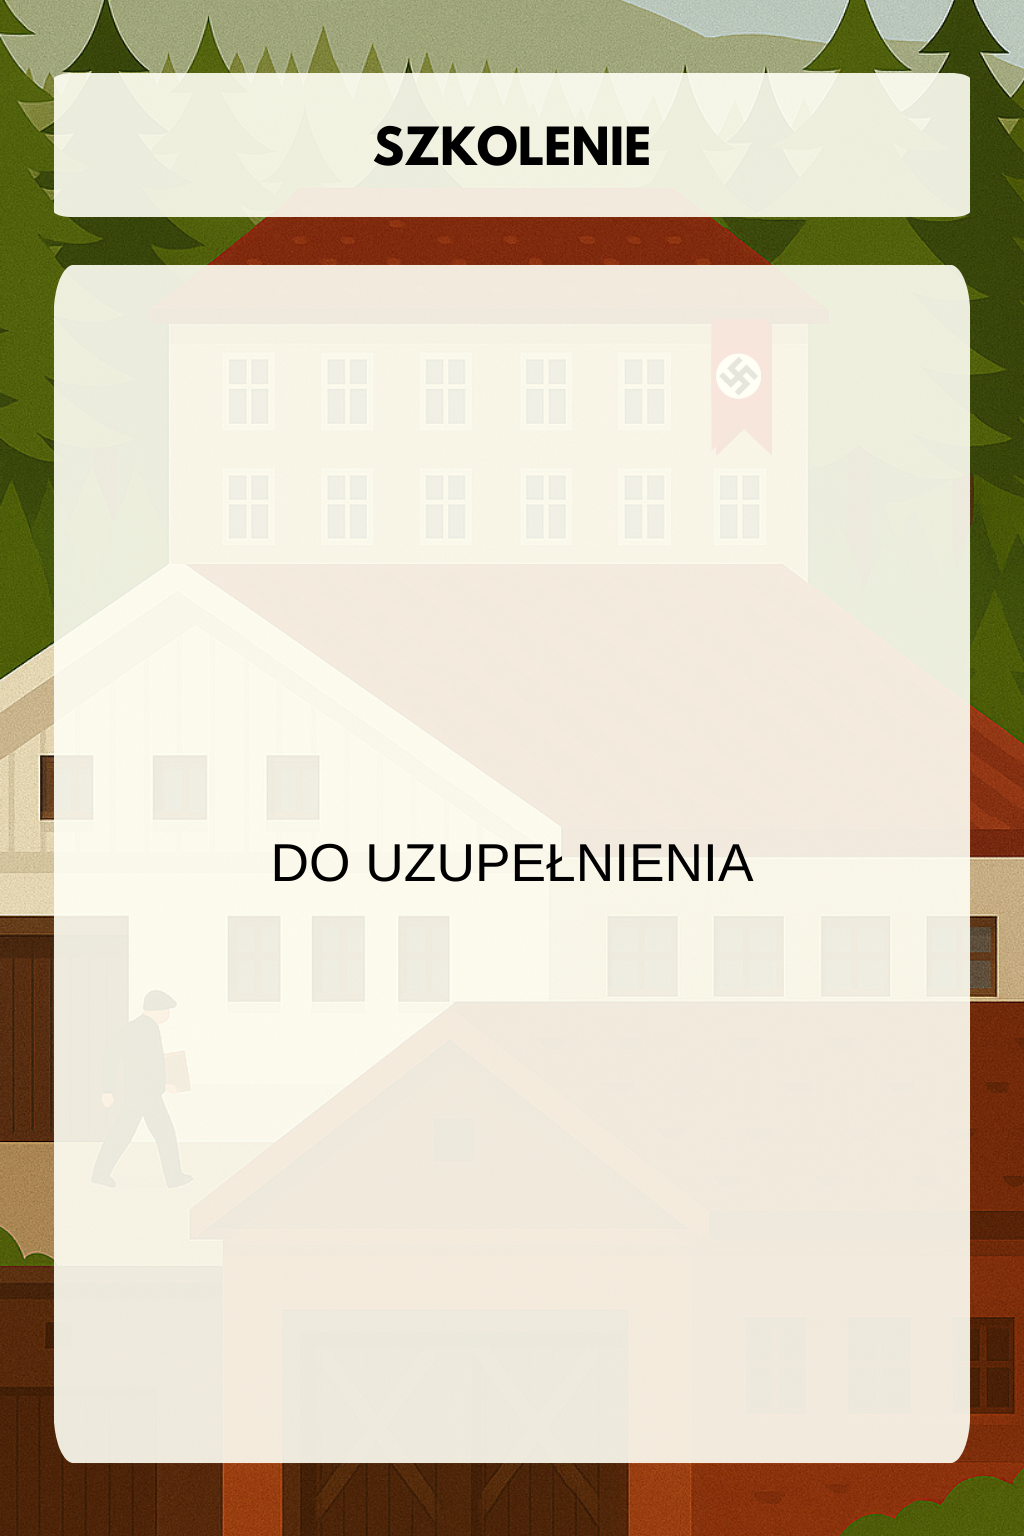
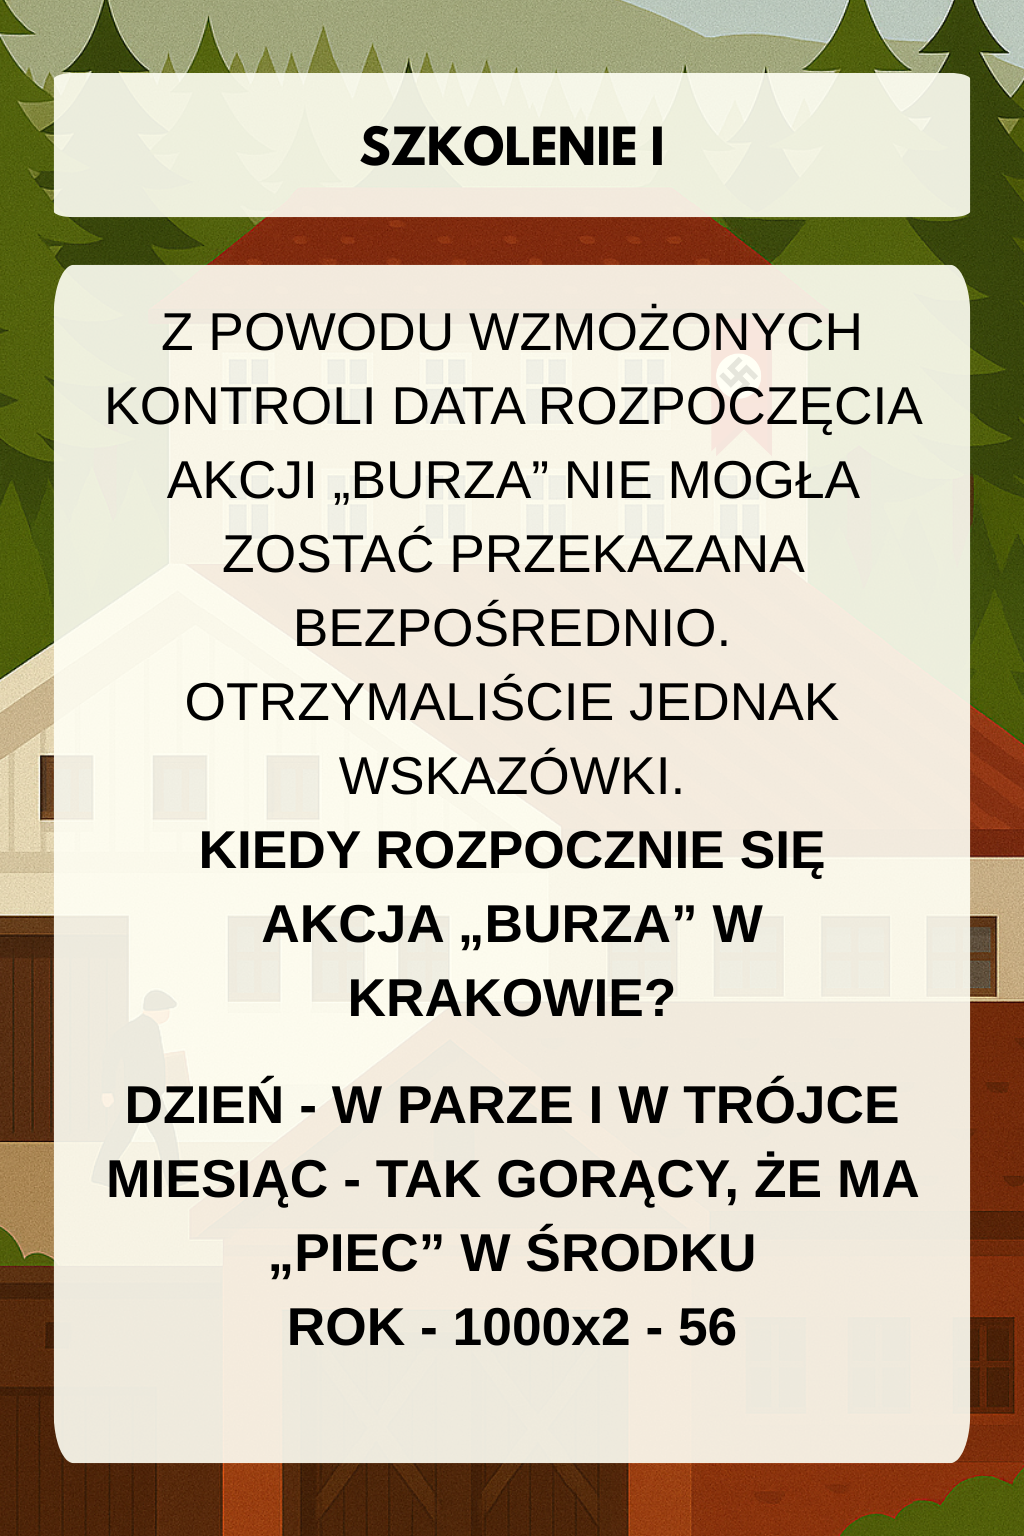
karty

Changed region(s): [[0.0938, 0.1875, 0.9062, 0.875], [0.3438, 0.0625, 0.6562, 0.125]]

diff --git a/frontend/js/overlay.js b/frontend/js/overlay.js
@@ -100,12 +100,15 @@ const CARD_DATA = {
     ] 
   },
   AK_1: {
-    front: 'cards/red_ak.png',
-    back: 'cards/red_b_ak1.png',
-        options: [
-      { label: 'TUTAJ JESZCZE COŚ DODAMY', effect: { } },
-    ]
-  },
+  front: 'cards/red_ak.png',
+  back: 'cards/red_b_ak1.png',
+      options: [
+    { label: 'Polska Walcząca', effect: { cash: +1000} },
+    { label: 'Powstanie Wrszawskie', effect: { cash: -500} },
+    { label: 'Pierwsza Wojna', effect: { cash: -500} },
+    { label: 'Polska Waleczna', effect: { cash: -500} },
+  ]
+},
   lapanka_b: {
     front: 'cards/black_lapanka.png',
     back:  'cards/black_b_lapanka.png',
@@ -182,10 +185,15 @@ const CARD_DATA = {
     options : [{label:'O nie!'}]
   },
   szkolenie_3: {
-    front: 'cards/red_szkolenie.png',
-    back: 'cards/red_b_szkolenie.png',
-    buttons: ['Odp zła', 'odp zła', 'Odp dobra']
-  },
+  front: 'cards/red_szkolenie.png',
+  back: 'cards/red_b_szkolenieiii.png',
+  options : [
+    { label: 'MIL', effect: {cash: -500} },
+    { label: 'NIL', effect: { cash: 1000} },
+    { label: 'NJL', effect: {cash: -500}},
+    { label: 'OJM', effect: {cash: -500} }
+  ]
+},
   AK_4: {
     front: 'cards/red_ak.png',
     back: 'cards/red_b_ak4.png',
@@ -203,10 +211,15 @@ const CARD_DATA = {
     options : [{ label: 'Rzucamy kostką!', effect: {} }]
   },
   szkolenie_1_b:{
-    front: 'cards/black_szkolenie.png',
-    back: 'cards/black_b_szkolenie.png',
-    options: [{label:'Tu jeszcze coś dodamy'}]
-  },
+  front: 'cards/black_szkolenie.png',
+  back: 'cards/black_b_szkolenie.png',
+  options : [
+    { label: '22.07.1945', effect: {cash: -500} },
+    { label: '23.07.1944', effect: { cash: 1000} },
+    { label: '23.08.1944', effect: {cash: -500}},
+    { label: '22.08.1945', effect: {cash: -500} }
+  ]
+},
   burza_2_b: {
     front: 'cards/black_burza.png',
     back: 'cards/black_b_burzaii.png',
@@ -365,8 +378,14 @@ options.forEach(option => {
       }
     }
 
-    // --- POLE AK_1 ------------------------------------- DO DODANIA 
-
+    // --- POLE AK_1 ------------------------------------- 
+  if (fieldType === 'AK_1') {
+  if (change.cash === 1000) {
+    showCardMessage('Dobra odpowiedź! +1000 zł', 'success');
+  } else if (change.cash === -500) {
+    showCardMessage('Zła odpowiedź! -500 zł', 'fail');
+  }
+}
     // POLE HANDEL ------------------------------------------------------------ SKOŃCZONE
     if (fieldType === 'handel') {
       if (option.label === 'Kup 1 znacznik') {
@@ -653,6 +672,13 @@ if (fieldType === 'wsypa') {
   }
 }
   // --- POLE SZKOLENIE 3 ---
+  if (fieldType === 'szkolenie_3') {
+    if (change.cash === 1000) {
+      showCardMessage('Dobra odpowiedź! +1000 zł', 'success');
+    } else if (change.cash === -500) {
+      showCardMessage('Zła odpowiedź! -500 zł', 'fail');
+    }
+  }
 
   // --- POLE AK 4 ---
     if (fieldType === 'AK_4') {
@@ -734,6 +760,13 @@ if (fieldType === 'burza_1_b') {
 }
 
 // --- POLE SZKOLENIE_1_B -------------------------------------------- TU JESZCZE COŚ DODAMY
+ if (fieldType === 'szkolenie_1_b') {
+   if (change.cash === 1000) {
+     showCardMessage('Dobra odpowiedź! +1000 zł', 'success');
+   } else if (change.cash === -500) {
+     showCardMessage('Zła odpowiedź! -500 zł', 'fail');
+   }
+ }
 
 // --- POLE BURZA_2_B ---
   if (fieldType === 'burza_2_b') {
